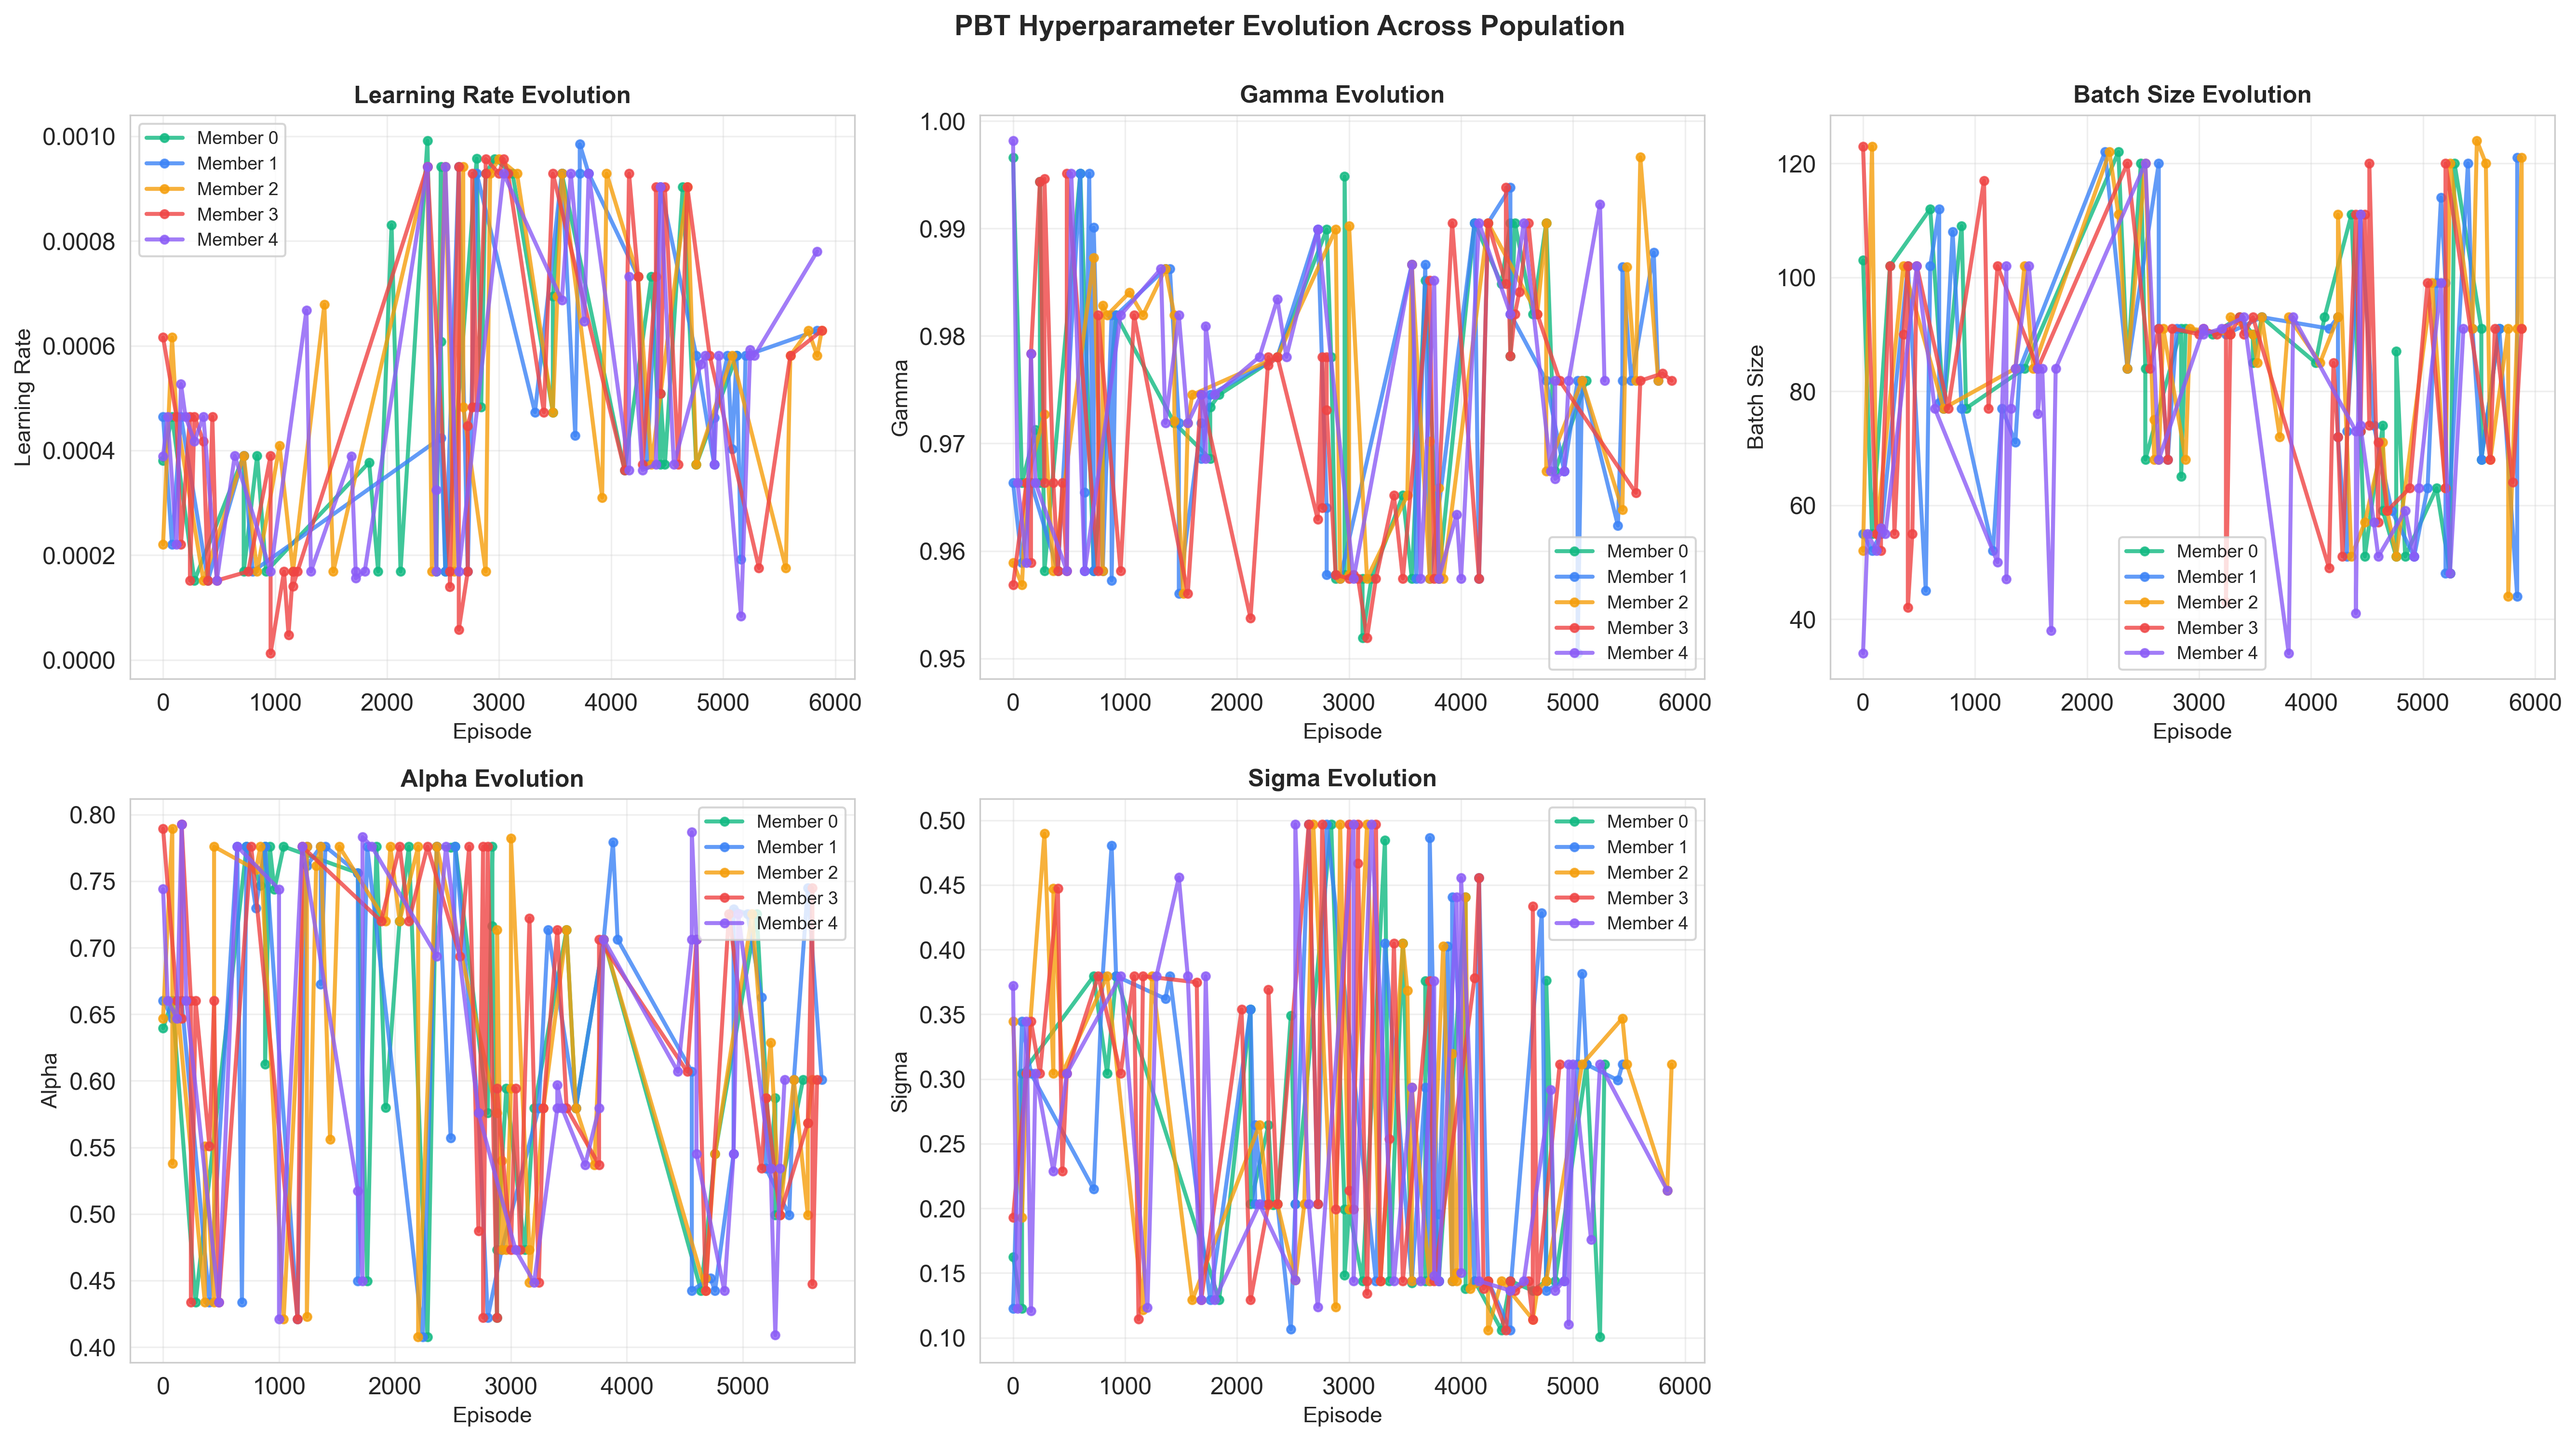
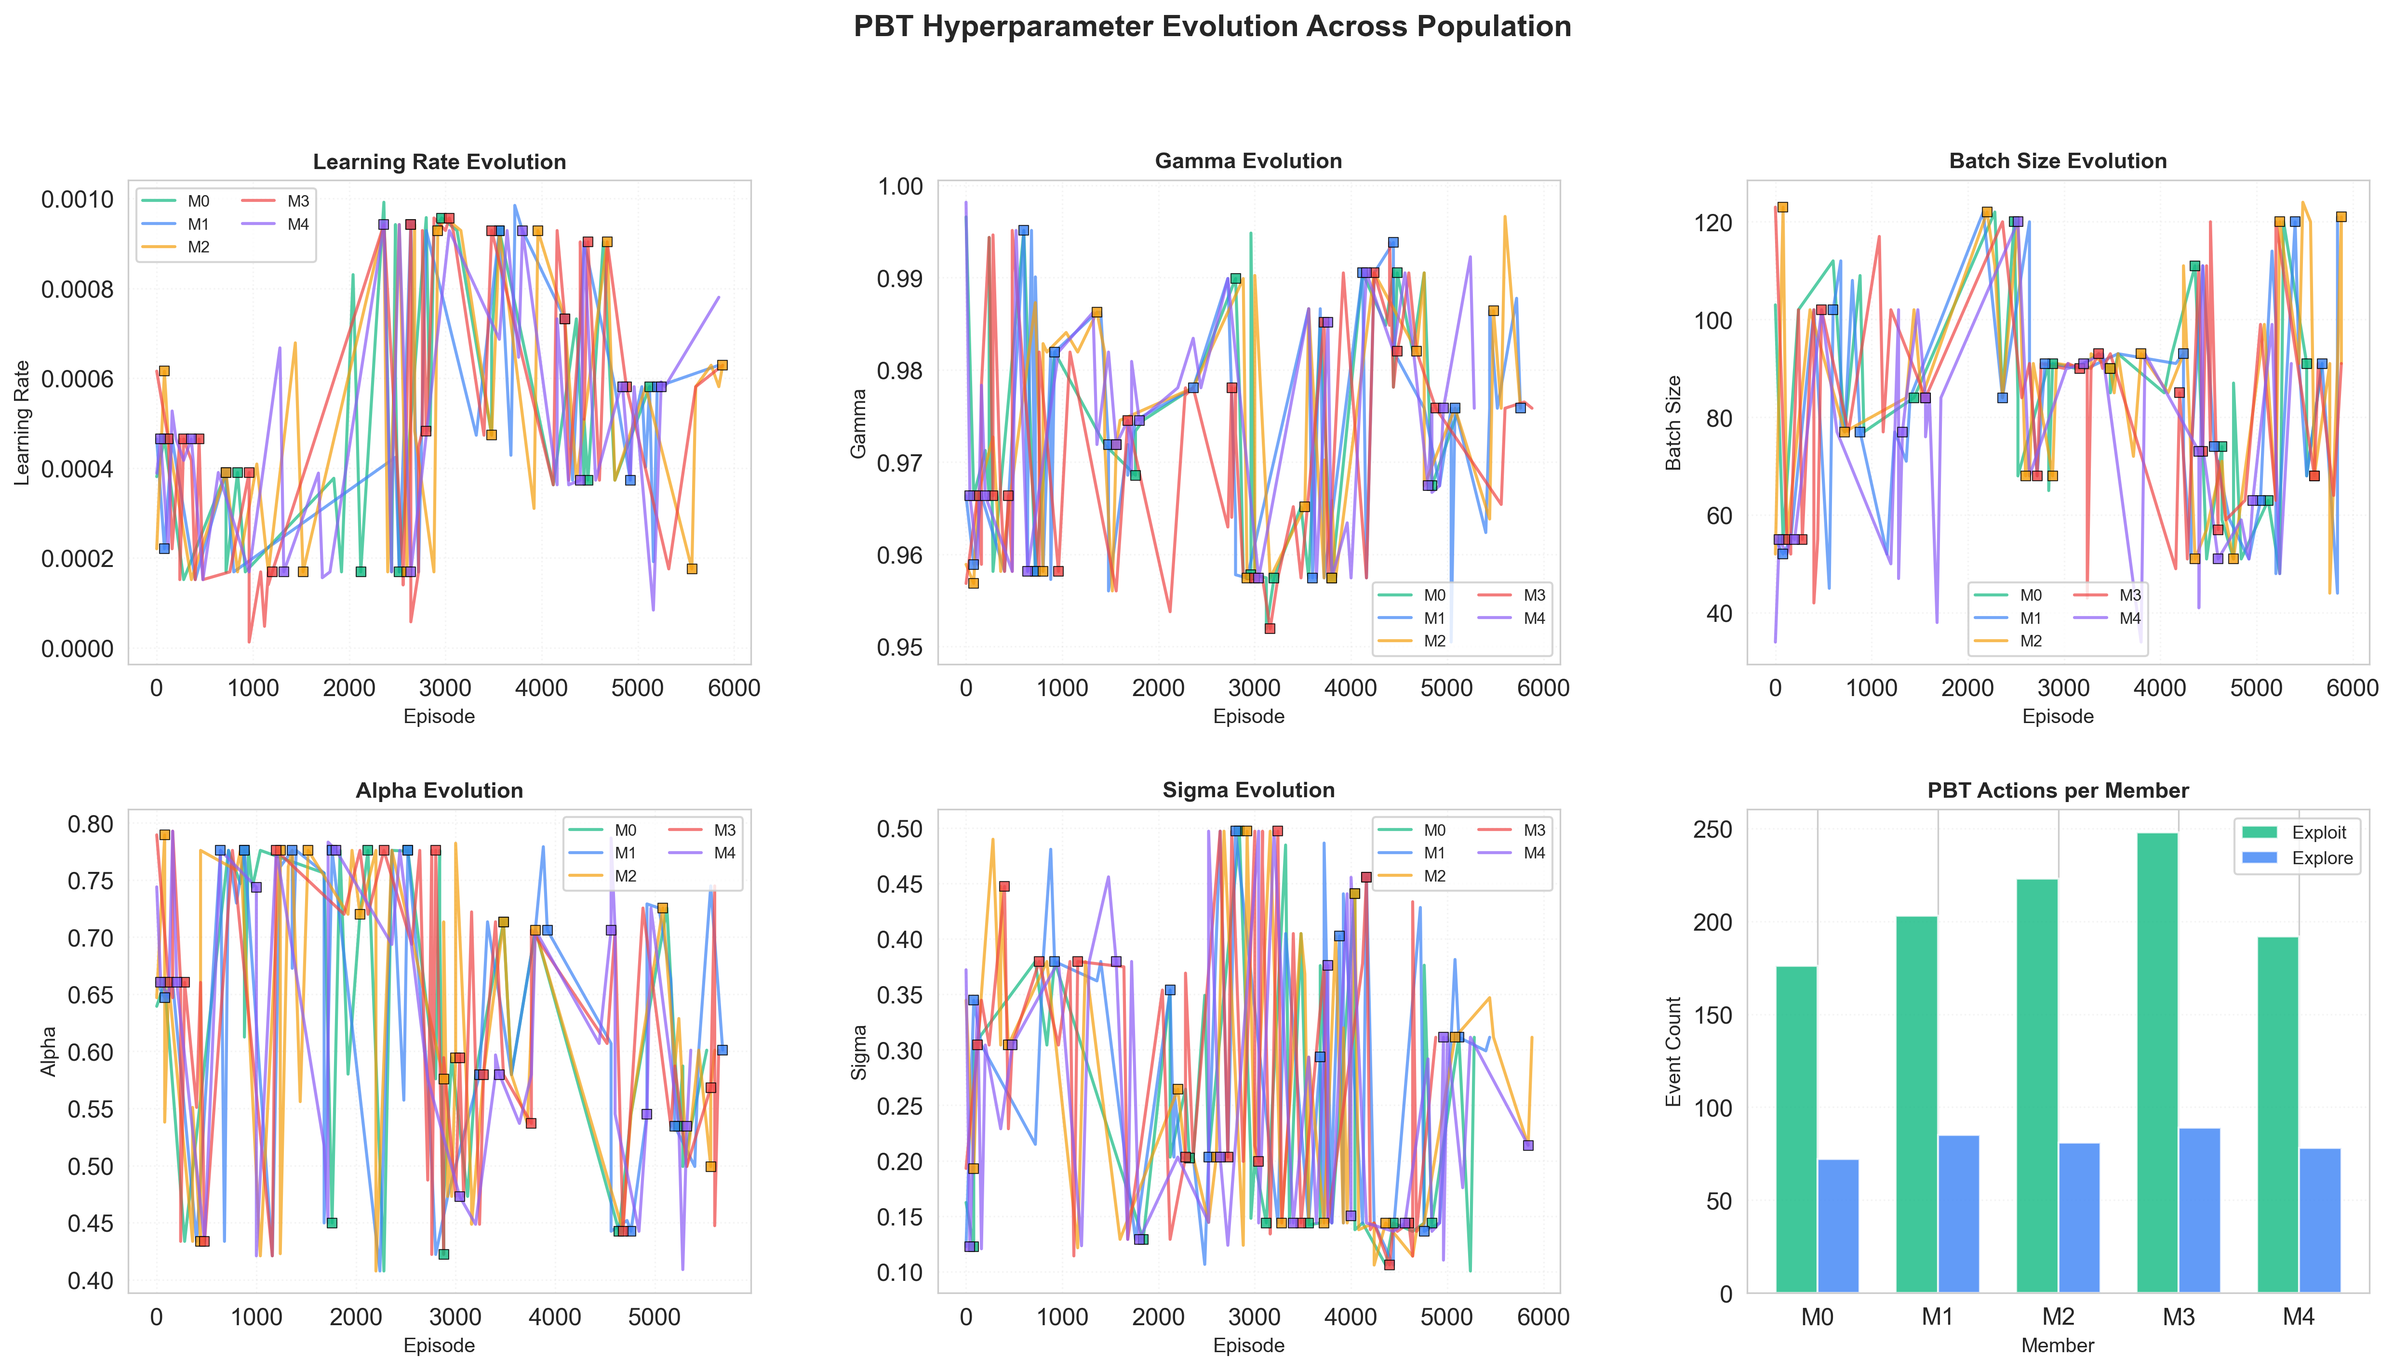
Imporved hyper parameter graph for pbt

diff --git a/comprehensive_analysis.py b/comprehensive_analysis.py
@@ -399,13 +399,21 @@ def analyze_pbt_hyperparameters(data):
     # Key hyperparameters to track
     key_params = ['learning_rate', 'gamma', 'batch_size', 'alpha', 'sigma']
     
-    fig, axes = plt.subplots(2, 3, figsize=(18, 10))
-    axes = axes.flatten()
+    fig = plt.figure(figsize=(20, 10))
+    gs = fig.add_gridspec(2, 3, hspace=0.30, wspace=0.3)
     
     colors_pbt = ['#10B981', '#3B82F6', '#F59E0B', '#EF4444', '#8B5CF6']
     
     for param_idx, param_name in enumerate(key_params):
-        ax = axes[param_idx]
+        if param_idx < 3:
+            row = 0
+            col = param_idx
+        else:
+            row = 1
+            col = param_idx - 3
+        ax = fig.add_subplot(gs[row, col])
+        
+        all_values = []
         
         # Plot evolution for each member
         for member_idx, exp_log in enumerate(exploration_logs):
@@ -418,28 +426,67 @@ def analyze_pbt_hyperparameters(data):
             if len(param_changes) == 0:
                 continue
             
-            # Build timeline of parameter values
             episodes = [0]
             values = [float(param_changes.iloc[0]['new_value'])]
             
-            for idx, row in param_changes.iloc[1:].iterrows():
-                episodes.append(int(row['episode']))
-                values.append(float(row['new_value']))
+            for idx, row_data in param_changes.iloc[1:].iterrows():
+                episodes.append(int(row_data['episode']))
+                values.append(float(row_data['new_value']))
             
-            ax.plot(episodes, values, label=f'Member {member_idx}', 
-                   color=colors_pbt[member_idx], linewidth=2, alpha=0.8, marker='o', markersize=4)
+            all_values.extend(values)
+            
+            ax.plot(episodes, values, label=f'M{member_idx}', 
+                   color=colors_pbt[member_idx], linewidth=1.5, alpha=0.7)
+            
+            if 'change_type' in param_changes.columns:
+                exploit_mask = param_changes['change_type'] == 'exploit'
+                
+                if exploit_mask.any():
+                    exploit_data = param_changes[exploit_mask]
+                    # Sample every 3rd exploit event to reduce clutter
+                    sample_indices = range(0, len(exploit_data), 3)
+                    exploit_episodes = exploit_data.iloc[sample_indices]['episode'].values
+                    exploit_values = [float(v) for v in exploit_data.iloc[sample_indices]['new_value'].values]
+                    
+                    if len(exploit_episodes) > 0:
+                        ax.scatter(exploit_episodes, exploit_values, marker='s', s=25, 
+                                  color=colors_pbt[member_idx], edgecolors='black', linewidths=0.5, 
+                                  zorder=3, alpha=0.8)
         
         param_display = param_name.replace('_', ' ').title()
-        ax.set_xlabel('Episode', fontsize=11)
-        ax.set_ylabel(param_display, fontsize=11)
-        ax.set_title(f'{param_display} Evolution', fontsize=12, fontweight='bold')
-        ax.legend(fontsize=9, loc='best')
-        ax.grid(True, alpha=0.3)
+        ax.set_xlabel('Episode', fontsize=10)
+        ax.set_ylabel(param_display, fontsize=10)
+        ax.set_title(f'{param_display} Evolution', fontsize=11, fontweight='bold')
+        ax.legend(fontsize=8, loc='best', ncol=2)
+        ax.grid(True, alpha=0.2, linestyle=':')
     
-    fig.delaxes(axes[5])
+
+    ax_events = fig.add_subplot(gs[1, 2])
     
-    plt.suptitle('PBT Hyperparameter Evolution Across Population', fontsize=14, fontweight='bold', y=0.995)
-    plt.tight_layout()
+    exploit_counts = []
+    explore_counts = []
+    for member_idx, exp_log in enumerate(exploration_logs):
+        if exp_log is None:
+            exploit_counts.append(0)
+            explore_counts.append(0)
+            continue
+        exploit_counts.append(len(exp_log[exp_log['change_type'] == 'exploit']))
+        explore_counts.append(len(exp_log[exp_log['change_type'] == 'explore']))
+    
+    x_pos = np.arange(5)
+    width = 0.35
+    ax_events.bar(x_pos - width/2, exploit_counts, width, label='Exploit', color='#10B981', alpha=0.8)
+    ax_events.bar(x_pos + width/2, explore_counts, width, label='Explore', color='#3B82F6', alpha=0.8)
+    
+    ax_events.set_xlabel('Member', fontsize=10)
+    ax_events.set_ylabel('Event Count', fontsize=10)
+    ax_events.set_title('PBT Actions per Member', fontsize=11, fontweight='bold')
+    ax_events.set_xticks(x_pos)
+    ax_events.set_xticklabels([f'M{i}' for i in range(5)])
+    ax_events.legend(fontsize=9)
+    ax_events.grid(True, alpha=0.2, axis='y', linestyle=':')
+    
+    plt.suptitle('PBT Hyperparameter Evolution Across Population', fontsize=15, fontweight='bold', y=0.995)
     plt.savefig(PLOT_DIR / "5_pbt_hyperparameter_evolution.png", bbox_inches='tight', dpi=300)
     plt.close()
 
